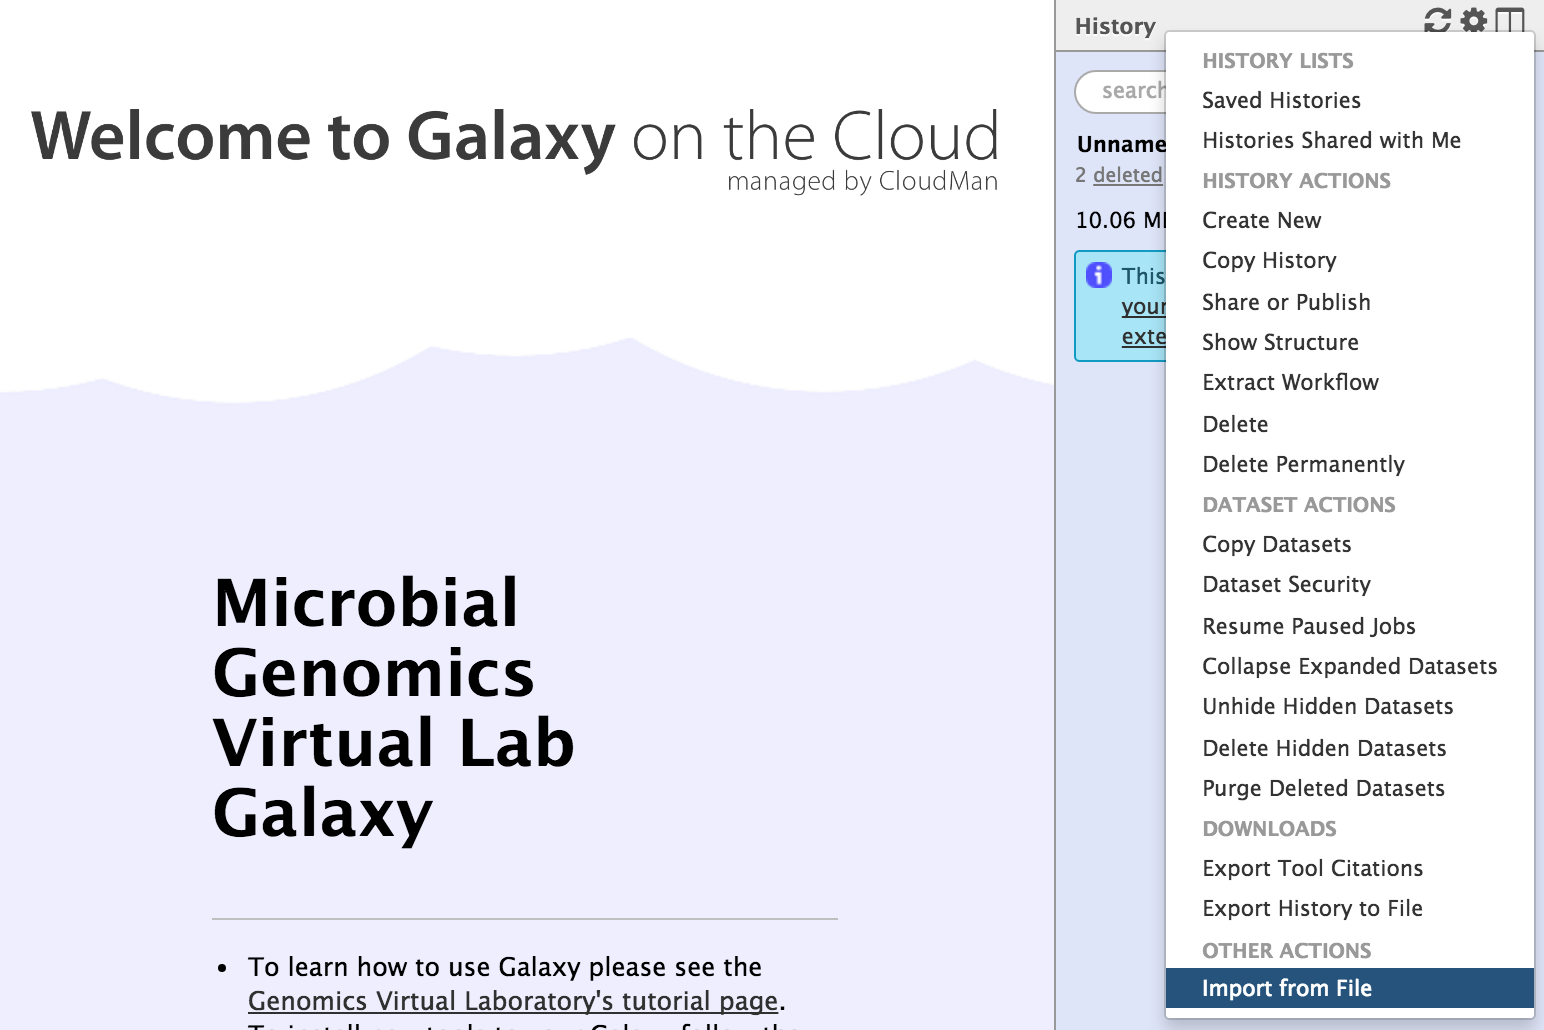
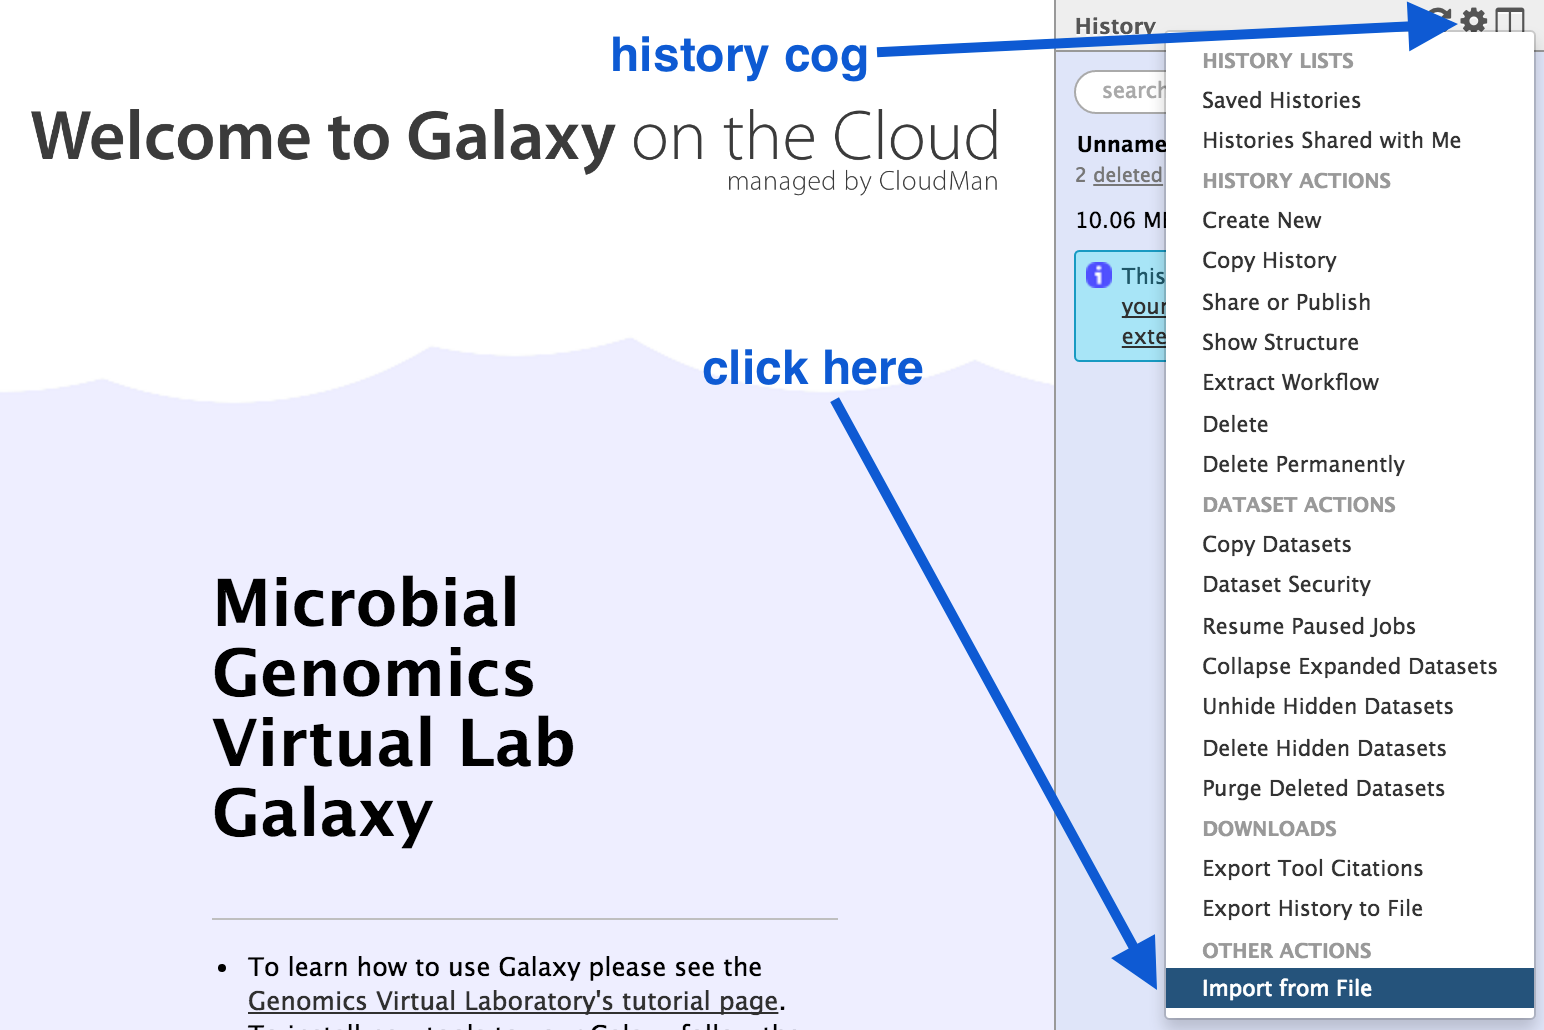
tidying up

diff --git a/docs/modules/data-dna/index.md b/docs/modules/data-dna/index.md
@@ -1,51 +1,51 @@
 <br>
 # Dataset
 
-This page contains data for the tutorials. The tutorials will specify whether to import a whole history (URLs listed in the first section) or an individual file (URLs listed in the second section).
+## Upload a Galaxy history
 
-## Galaxy histories: URLs
+- Copy this link:
+    - **<tt>https://swift.rc.nectar.org.au:8888/v1/AUTH_377/public/Microbial_tutorials/Galaxy_history_input_files.tar.gz</tt>**
 
-* Galaxy history of input files
-
-<tt>https://swift.rc.nectar.org.au:8888/v1/AUTH_377/public/Microbial_tutorials/Galaxy_history_input_files.tar.gz</tt>
-
-* Galaxy history: FastQC
-
-<tt>https://swift.rc.nectar.org.au:8888/v1/AUTH_377/public/Microbial_tutorials/FastQChistory.tar.gz</tt>
-
-* Galaxy history: Spades
-
-<tt>https://swift.rc.nectar.org.au:8888/v1/AUTH_377/public/Microbial_tutorials/Spadeshistory.tar.gz</tt>
-
-* Galaxy history: Prokka
-
-<tt>https://swift.rc.nectar.org.au:8888/v1/AUTH_377/public/Microbial_tutorials/Prokkahistory.tar.gz</tt>
-
-* Galaxy history: Snippy
-
-<tt>https://swift.rc.nectar.org.au:8888/v1/AUTH_377/public/Microbial_tutorials/Snippyhistory.tar.gz</tt>
-
-**To get the saved tutorial history (a set of files) into Galaxy:**
-
-- Copy the link address.
 - Go to your Galaxy instance. Make sure you are registered and logged in. Refresh the page.
 - Click on the <ss>History</ss> cog ![cog icon](images/image02.png)
 - Select <ss>Import from File</ss>
 
 ![history options](images/image03.png)
 
-- In the box called <ss>Archived History URL</ss>, paste in the link address to the Galaxy history.
+- In the box called <ss>Archived History URL</ss>, paste in the link address to the Galaxy history (that you copied above).
 - Click <ss>Submit</ss>
 - Wait a few seconds.
-- Click on the "view all histories" button ![histories icon](images/image11.png)
+- Click on the <ss>view all histories</ss> button ![histories icon](images/image11.png)
 - See if the Galaxy history has been imported: it will be called <fn>imported from archive: Data</fn>
 - Above that pane, click on the <ss>Switch to</ss> button.
 - Then click <ss>Done</ss> (in the top left corner).
-- You should now have a list of five files in your current history.
+- You should now have a list of five files in your current history. We will use these for the Genomics Workshop; or see below for additional files.
 
 ![files in galaxy history](images/datafiles.png)
 
-## Individual input files
+## Additional Galaxy histories
+
+If you are using only part of the Genomics Workshop, you can upload any required histories listed here. Follow the instructions above.
+
+### Galaxy history: FastQC
+
+<tt>https://swift.rc.nectar.org.au:8888/v1/AUTH_377/public/Microbial_tutorials/FastQChistory.tar.gz</tt>
+
+### Galaxy history: Spades
+
+<tt>https://swift.rc.nectar.org.au:8888/v1/AUTH_377/public/Microbial_tutorials/Spadeshistory.tar.gz</tt>
+
+### Galaxy history: Prokka
+
+<tt>https://swift.rc.nectar.org.au:8888/v1/AUTH_377/public/Microbial_tutorials/Prokkahistory.tar.gz</tt>
+
+### Galaxy history: Snippy
+
+<tt>https://swift.rc.nectar.org.au:8888/v1/AUTH_377/public/Microbial_tutorials/Snippyhistory.tar.gz</tt>
+
+## Additional files
+
+If you need individual files, you can upload any of the files listed here. The instructions are listed below.
 
 ###Wildtype reference
 
@@ -100,9 +100,3 @@ Or, tell Galaxy to find the file from an external source:
 -  Click the <ss>Start</ss> button.  
 -  Once the progress bar reaches 100%, click the <ss>Close</ss> button  
 - The file will now upload to your current history.
-
-<!-- ## What next?
-
-- If you are are working through the tutorials in a different order or want to see the completed history for another section, additional Galaxy histories are available above.
-- Next: [Learn about quality control](../fastqc/index.md).
--->

diff --git a/docs/modules/galaxy/index.md b/docs/modules/galaxy/index.md
@@ -1,9 +1,9 @@
 <br>
-# Get Data into Galaxy
+# Starting with Galaxy
 
 Keywords: Galaxy, Microbial Genomics Virtual Lab
 
-## Galaxy Background
+## Background
 
 Galaxy is a web-based analysis and workflow platform designed for biologists to analyse their own data. It can be used to run a variety of bioinformatics tools. The selection of bioinformatics tools installed on the Galaxy instance we are using today caters for the analysis of bacterial genomics data sets.
 
@@ -13,7 +13,7 @@ The Galaxy interface is separated into three parts. The <ss>Tools</ss> list on t
 
 ![galaxy overview screenshot](images/image05.png)
 
-## Register in Galaxy
+## Register
 
 Open a new tab or window on your web browser. Use Firefox or Chrome - please don’t use Internet Explorer or Safari.
 
@@ -36,8 +36,11 @@ Click on <ss>User</ss> button on the right.
 
 ![Shared histories](images/image10.png)
 
-- A list of published histories should appear. Click on the history that you want to use.
-- Click on <ss>Import history</ss>.
+- A list of published histories should appear. Click on the history that you want to use. For the Genomics Workshop, click on this one:
+
+![histories](images/pub_hist.png)
+
+- Then click on <ss>Import history</ss>.
 - An option will appear to re-name the history. We don't need to rename it, so click <ss>Import</ss>.
 
 - The history will now appear in your Current History pane, and the files are ready to use in Galaxy analyses.
@@ -46,4 +49,4 @@ Click on <ss>User</ss> button on the right.
 
 - Upload a file from your computer
 - Copy a link to a Galaxy history
-- For sample training data files to use, see the [next section.](../data-dna/index.md)
+- See the [next section](../data-dna/index.md) for more detailed information.

diff --git a/docs/modules/velvet/index.md b/docs/modules/velvet/index.md
@@ -21,9 +21,9 @@ At the end of this tutorial you should be able to:
 
 ## Import and view data
 
-If you have completed the previous tutorial on [Quality Control](/modules/fastqc/index.md), you should already have the required files in your current Galaxy history. If not, see how to get them [here](/modules/galaxy/index.md).
+If you have completed the previous tutorial on [Quality Control](/modules/fastqc/index.md), you should already have the required files in your current Galaxy history. If not, see how to get them [here](/modules/data-dna/index.md).
 
-Alternative ways to obtain the files:
+<!-- Alternative ways to obtain the files:
 
 - In the centre of the top Galaxy panel, select <ss>Shared Data: Histories</ss>
 - Select <fn>Microbial-assembly-start-history</fn> and then in the top right corner click on <ss>Import history</ss>.
@@ -44,6 +44,7 @@ Or:
 - Above that pane, click on the <ss>Switch to</ss> button.
 - Then click <ss>Done</ss> (in the top left corner).
 - You should now have a list of five files in your current history.
+-->
 
 ### The data
 

diff --git a/docs/modules/spades/index.md b/docs/modules/spades/index.md
@@ -56,7 +56,7 @@ FIXME: note this contains the same galaxy address as above - change?
 <!-- If you have completed the previous tutorial on [Quality Control](/modules/fastqc/index.md), you should already have the required files in your current Galaxy history. If not, see how to get them [here](/modules/galaxy/index.md).
 -->
 
-See [here](/modules/galaxy/index.md) for information about how to start with Galaxy, and [here](/modules/data-dna/index.md) for the link to import the "Galaxy history of input files" for this tutorial, if you don't already have them in your history.
+See [here](/modules/galaxy/index.md) for information about how to start with Galaxy, and [here](/modules/data-dna/index.md) for the link to import the Galaxy history for this tutorial, if you don't already have them in your history.
 
 - The read set for today is from an imaginary *Staphylococcus aureus* bacterium with a miniature genome.
 - The whole genome shotgun method used to sequence our mutant strain read set was produced on an Illumina DNA sequencing instrument.

diff --git a/docs/modules/prokka/index.md b/docs/modules/prokka/index.md
@@ -59,9 +59,10 @@ Your tool interface should look like this:
 
 ## Examine the output
 
-First, enable *Scratchbook* in Galaxy - this allows you to view several windows simultaneously. Click on the 3&times;3 squares icon on the menu bar:
+<!-- First, enable *Scratchbook* in Galaxy - this allows you to view several windows simultaneously. Click on the 3&times;3 squares icon on the menu bar:
 
 ![scratchbook icon](images/scratchbook.png)
+-->
 
 Once Prokka has finished, examine each of its output files.
 

diff --git a/docs/modules/snippy/index.md b/docs/modules/snippy/index.md
@@ -53,9 +53,11 @@ Your tool interface should look like this:
 
 ## Examine Snippy output
 
-First, enable "Scratchbook" in Galaxy - this allows you to view several windows simultaneously. Click on the squares:
+<!-- First, enable "Scratchbook" in Galaxy - this allows you to view several windows simultaneously. Click on the squares:
 
 ![scratchbook icon](images/scratchbook.png)
+
+-->
 
 From Snippy, there are 10 output files in various formats.
 

diff --git a/docs/modules/workshop_overview/index.md b/docs/modules/workshop_overview/index.md
@@ -1,5 +1,5 @@
 <br>
-#Genomics workshop overview
+#Genomics workshop
 
 - The modules in this workshop cover microbial genomics, from assembly to annotation and variant calling.
 

diff --git a/long_read_slides.md b/long_read_slides.md
@@ -1,0 +1,13 @@
+# Long read slides
+
+Intro
+
+
+
+---
+
+# Slide 1
+
+---
+
+# Slide 2
